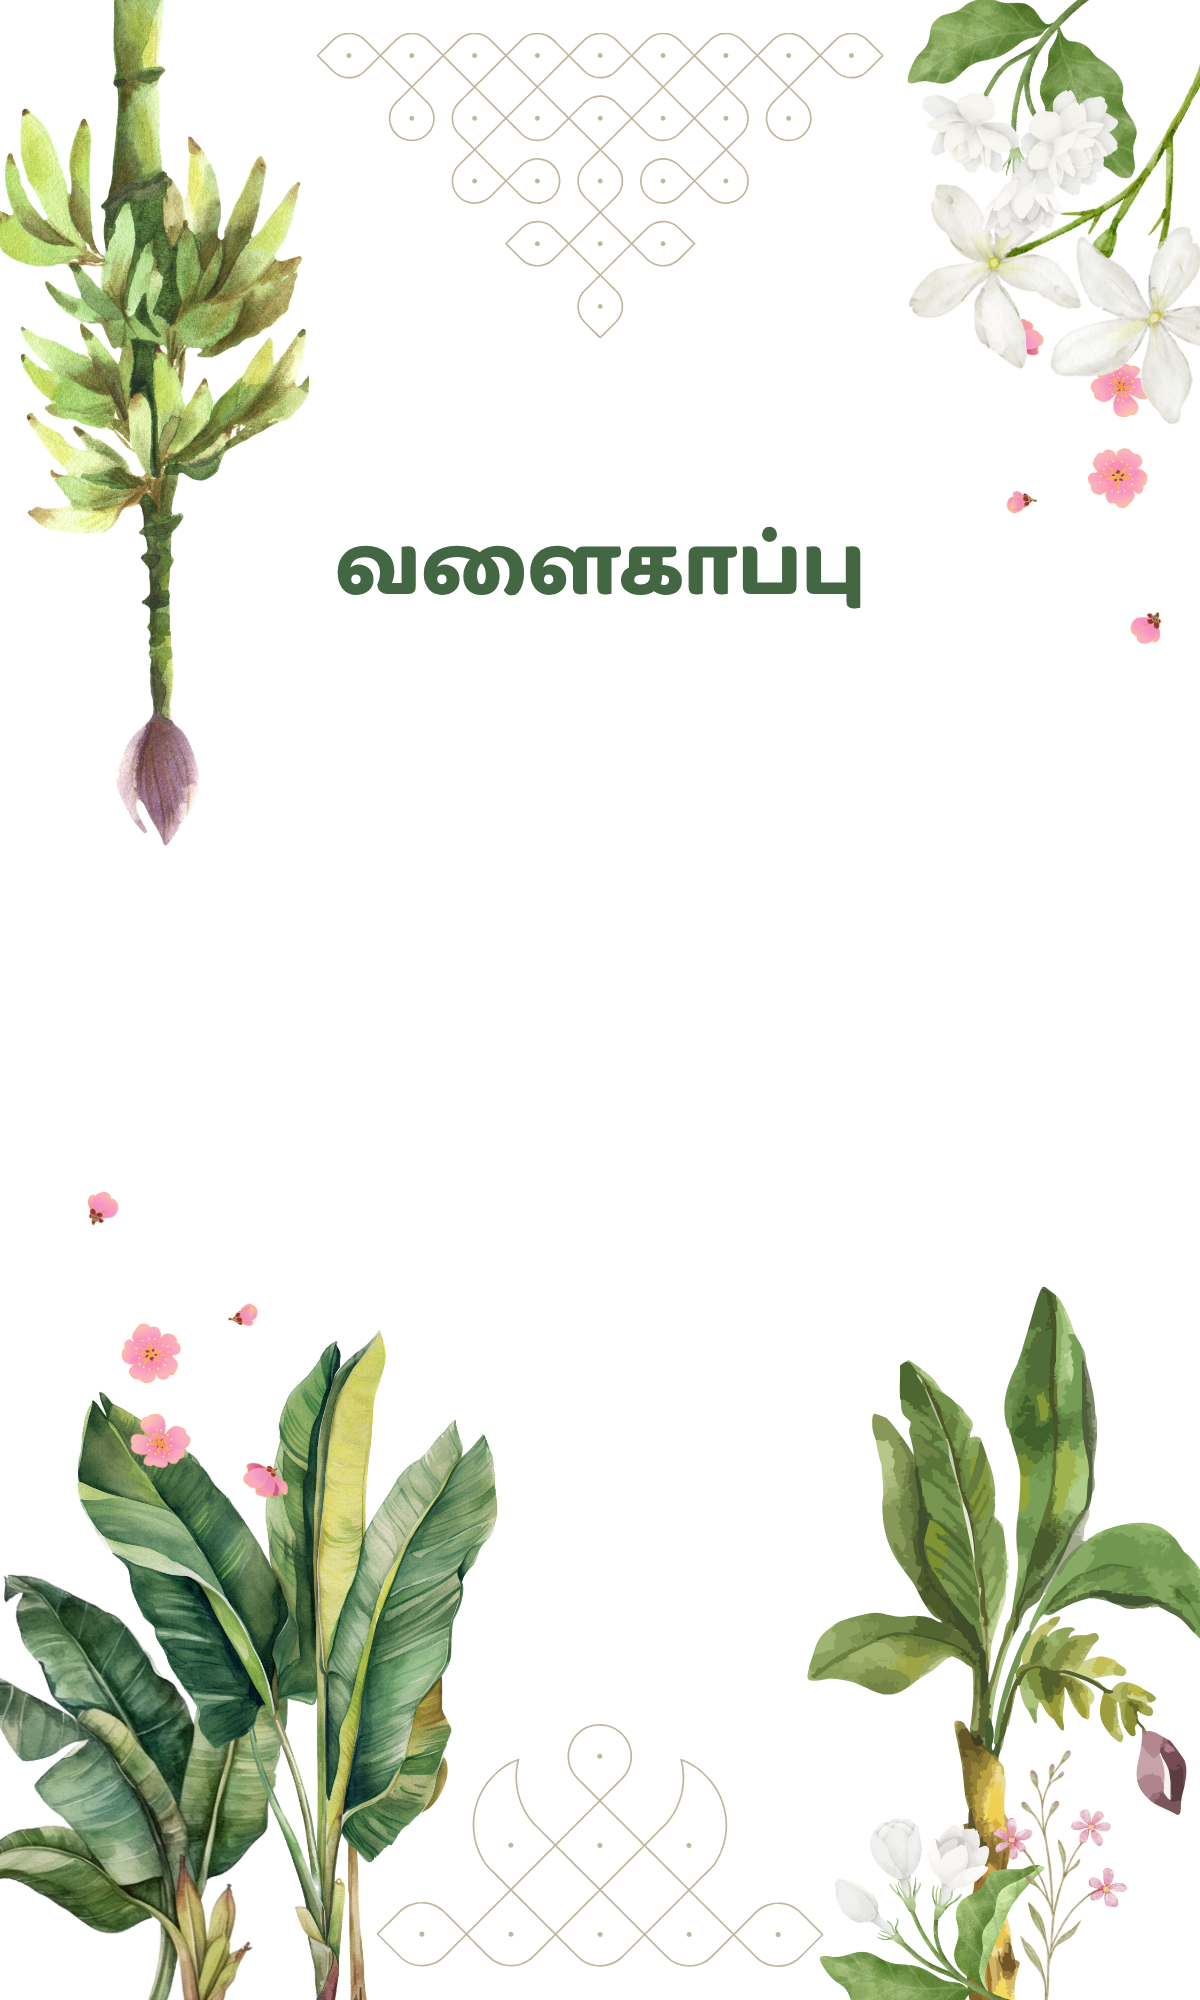
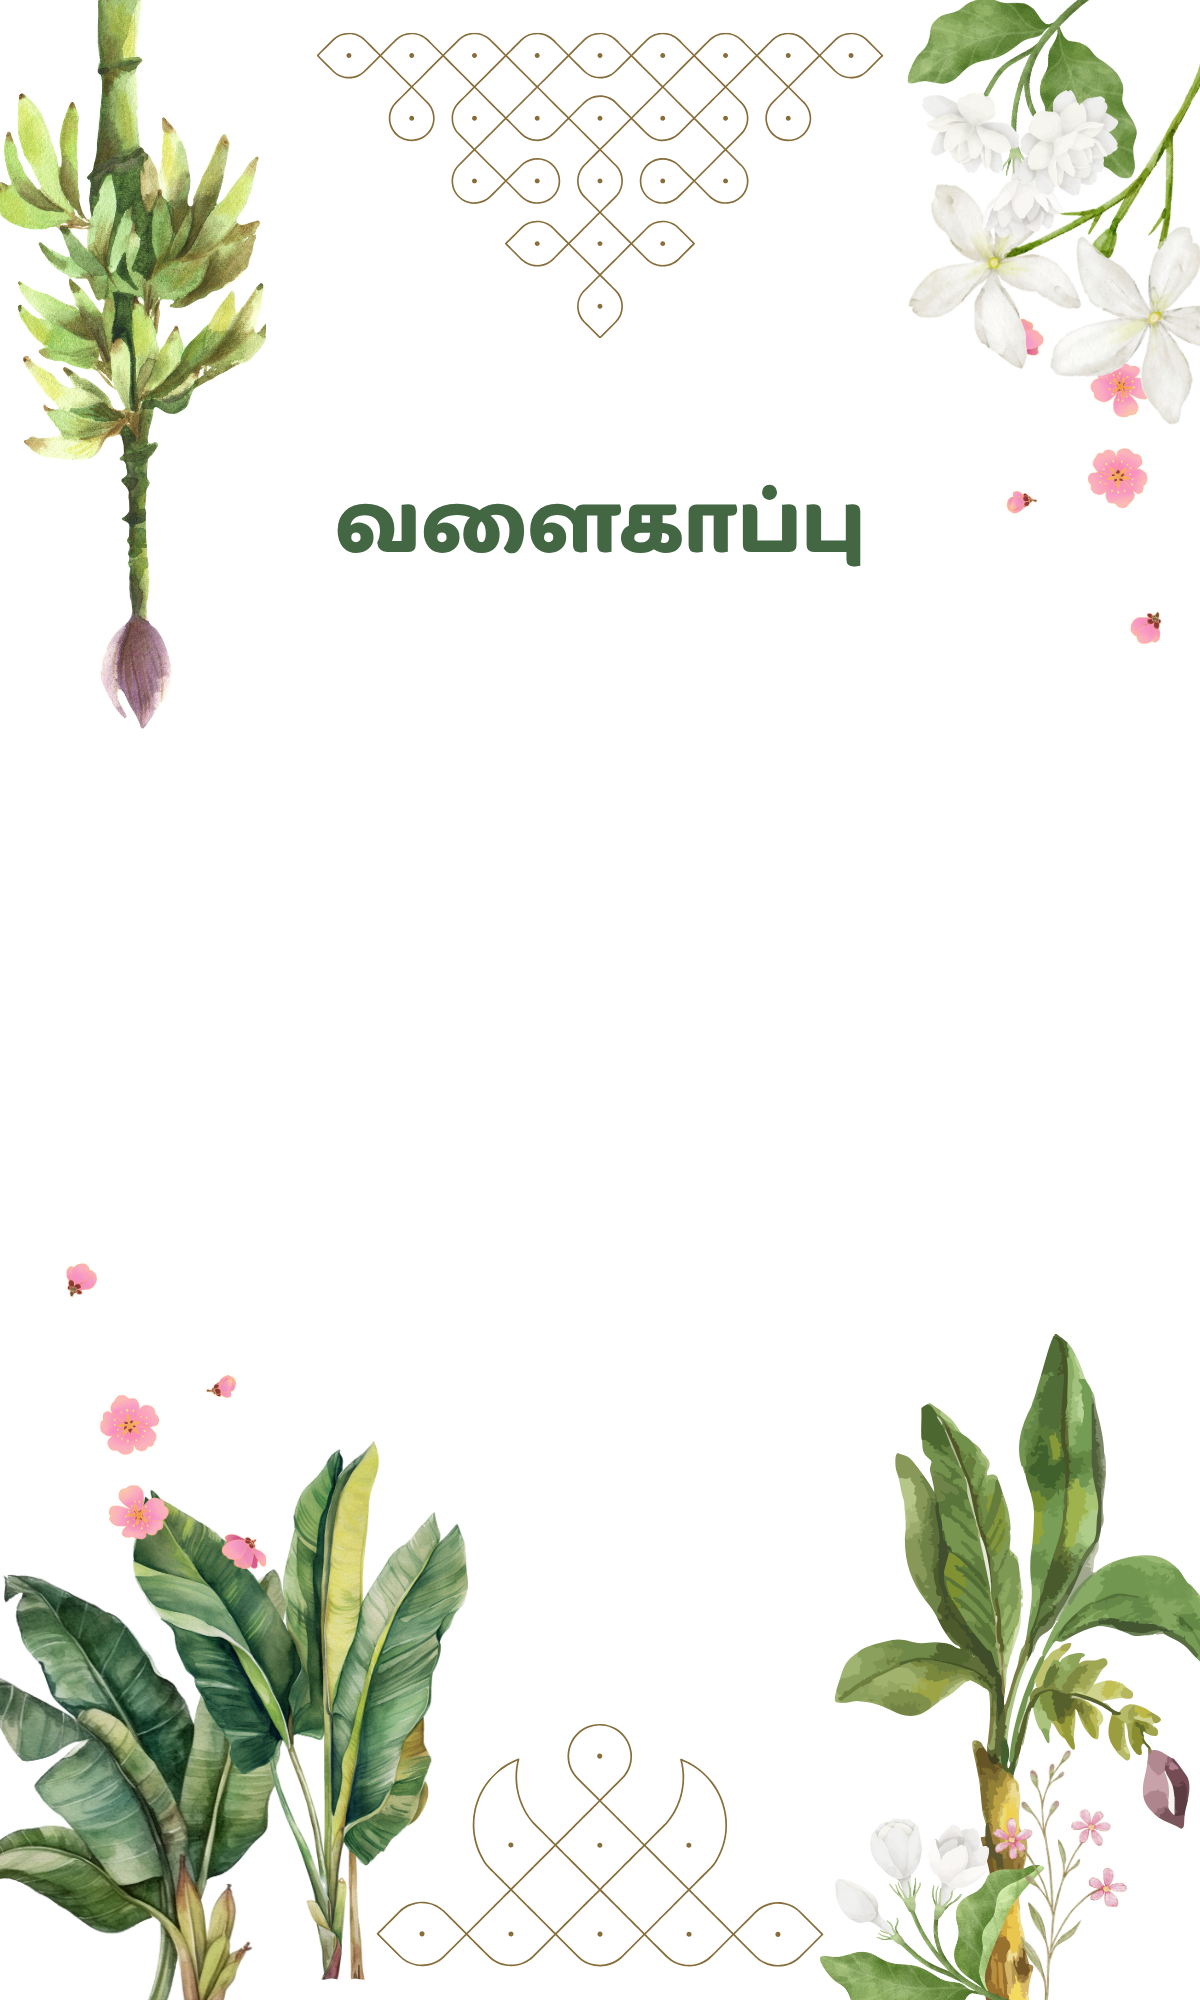
Add spacer graphic and tune invite card sizing/colors
Adds Images/spacer.png between the eyebrow text and the name badges, updates invite-bg.png, and adjusts the invite card's aspect ratio/max-width plus the accent color.

diff --git a/styles.css b/styles.css
@@ -1,5 +1,5 @@
 :root {
-  --purple: #539e86;
+  --purple: #407353;
   --blue: #4f8ef7;
   --teal: #45c9b8;
   --yellow: #fbd65b;
@@ -45,6 +45,14 @@ h2 {
   color: var(--muted);
   transform: rotate(-2deg);
   margin: 0 0 1rem;
+}
+
+.spacer-img {
+  display: block;
+  width: 240px;
+  max-width: 60%;
+  height: auto;
+  margin: 0 auto 1rem;
 }
 
 .names {
@@ -120,7 +128,7 @@ h2 {
   padding: 3rem;
   flex: 1 1 280px;
   max-width: 1200px;
-  min-height: 400px;
+  /* min-height: 400px; */
   box-shadow: 0 12px 30px rgba(28, 29, 46, 0.06);
   align-content: center;
   max-width: 400px;
@@ -130,10 +138,10 @@ h2 {
   background-image: url("Images/invite-bg.png");
   background-size: cover;
   background-position: center;
-  aspect-ratio: 1/2;
+  aspect-ratio: 1200 / 2000;
   min-height: 0;
   height: auto;
-  max-width: 600px;
+  max-width: 500px;
 }
 
 .icon-badge {

diff --git a/index.html b/index.html
@@ -18,6 +18,8 @@
   <header class="hero">
     <p class="eyebrow">A little one is on the way</p>
 
+    <img class="spacer-img" src="Images/spacer.png" alt="">
+
     <h1 class="names">
       <span class="name-badge tilt-left">Chandni</span>
       <span class="amp-bubble">&amp;</span>
@@ -30,7 +32,7 @@
     <div class="details">
       <div class="detail-card detail-card--invite">
         <!-- <span class="icon-badge icon-pink">&#127881;</span> -->
-        <h2>வளைகாப்பு <br> (Valaikaapu)</h2>
+        <h2>(Valaikaapu)</h2>
         <p class="when">Saturday, August 15th &middot; 2&ndash;6pm</p>
         <p class="where">Germantown, Philadelphia, PA <span class="tbd"> <br> venue to be updated</span></p>
         <a class="rsvp-btn" href="rsvp-in-person.html">RSVP</a>